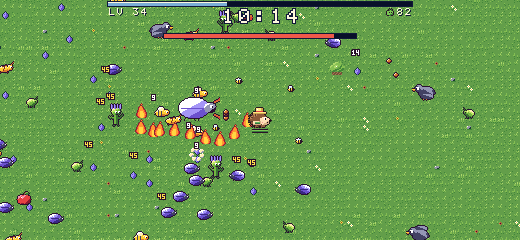
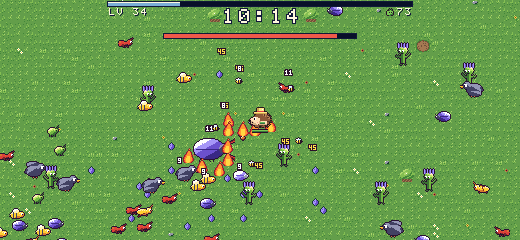
Prickle Patch: pests strolling on the title, a gentler Stag Beetle charge, the docs and their screenshots again
The title: a slug, a beetle and an aphid stroll across the garden at the screen's bottom (hardware sprites: their art
copied into the number pops' tiles, which the title does not use, on OBJ palette 5 with the soft layer's colours; the
colour math off there). The Stag Beetle charges at 3 px/f for 0.73 s (was 3.5 for 0.83), its touch 15. DESIGN.md: the
spawner's rate, the touch's growth, the measured frame costs, the bot's survival. Every game's host runners build;
make pricklepatch-check and pricklepatch-dist pass; the game links as an app module (modulize, ELF and COFF).

diff --git a/games/pricklepatch/src/draw.c b/games/pricklepatch/src/draw.c
@@ -270,6 +270,7 @@ void draw_init(void)
     rs_pal_load(RS_PAL_OBJ(OBJ_TOOLS), pp_pal_tools, 16);
     rs_pal_load(RS_PAL_OBJ(OBJ_ITEMS), pp_pal_items, 16);
     rs_pal_load(RS_PAL_OBJ(OBJ_FX), pp_pal_fx, 16);
+    rs_pal_load(RS_PAL_OBJ(5), pp_pal_soft, 16);           /* the title's strolling pests (title_critters) */
     rs_math(RS_MATH_ADD | RS_MATH_HALF, RS_MATH_OBJ, 0);   /* OBJ 4-7: see-through */
     rs_bg_enable(RS_BG1, 1);
     rs_bg_enable(RS_BG2, 1);
@@ -878,6 +879,29 @@ static void results_panel(const world *w, const view *v, int narrow)
     for (int i = 0; i < 4; i++) hu_big(x + (width - hu_width(vals[i], 1)) / 2, RES_ROW(i) + 1, vals[i], HU_BIG_BANNER);
 }
 
+/* the title: three pests stroll across the garden at the screen's bottom (hardware sprites: their art is copied into the
+ * number pops' tiles, which the title does not use, on OBJ palette 5 = the soft layer's colours; no colour math there) */
+static void title_critters(int t)
+{
+    static const uint8_t kind[3] = {SF_SLUG, SF_BEETLE, SF_APHID};
+    static const uint8_t speed[3] = {3, 4, 6};          /* px per 8 frames */
+    int left = rs_screen_left(), span = rs_screen_right() - left + 32;
+    for (int k = 0; k < 3; k++) {
+        int fr = kind[k] + ((t / (k == 2 ? 6 : 10)) & 1);
+        const pp_soft_def *d = &pp_soft[fr];
+        uint8_t buf[4][64];
+        memset(buf, 0, sizeof buf);
+        for (int y = 0; y < d->h; y++)
+            for (int x = 0; x < d->w; x++) {
+                int gx = d->ox + x, gy = d->oy + y + (16 - d->fh);   /* (feet on the 16-px cell's bottom) */
+                if (gx < 16 && gy >= 0 && gy < 16) buf[(gy / 8) * 2 + gx / 8][(gy & 7) * 8 + (gx & 7)] = pp_soft_px[d->off + y * d->w + x];
+            }
+        rs_tiles_load8(VR_OBJ + POP_TILE + k * 4, buf[0], 4);
+        int x = left - 16 + (int)((t * speed[k] / 8 + k * 137) % span), y = rs_screen_bottom() - 22 - k * 16;
+        spr_raw(x, y, POP_TILE + k * 4, 16, 16, 5, 2, 0);
+    }
+}
+
 /* ---- the frame ------------------------------------------------------------------------------------------------------------- */
 void draw_frame(const world *w, const view *v)
 {
@@ -918,6 +942,8 @@ void draw_frame(const world *w, const view *v)
     }
     rs_bg_enable(RS_BG2, !title);
     rs_brightness(15);
+    /* OBJ 4-7 see-through (the splash, the ring, the stick, the glows); the title: opaque (its pests on OBJ 5) */
+    rs_math(title ? RS_MATH_OFF : RS_MATH_ADD | RS_MATH_HALF, title ? 0 : RS_MATH_OBJ, 0);
 
     /* the UI layer: redrawn when what it shows changes */
     int secs = w->t / SEC;
@@ -1004,6 +1030,7 @@ void draw_frame(const world *w, const view *v)
         }
         if (!(v->unlocked & (1 << v->chr)))
             spr(SPR_I_LOCK, (narrow ? ht_mid_x() : 160) + hu_ui_x() + 8, (narrow ? pdy - 12 : 76) + 2, 3, 0);
+        if (v->state == ST_TITLE) title_critters(v->st_t);
         return;
     }
     if (v->state == ST_OVER) {

diff --git a/games/pricklepatch/src/world.c b/games/pricklepatch/src/world.c
@@ -22,7 +22,7 @@ const enemy_info EN_INFO[ET_COUNT] = {
     [ET_CROW]     = {  40, 18,  9,  9, 3, 4, SF_CROW},
     [ET_LOCUST]   = {  28, 14,  8,  7, 3, 5, SF_LOCUST},
     [ET_QUEEN]    = {2500,  8, 14, 18, 0, 0, SF_QUEEN},
-    [ET_STAG]     = {9000,  7, 18, 18, 0, 0, SF_STAG},
+    [ET_STAG]     = {9000,  7, 15, 18, 0, 0, SF_STAG},
     [ET_CROWKING] = {36000, 12, 22, 18, 0, 0, SF_CROWKING},
 };
 const uint8_t EVOLVE_WITH[W_COUNT] = {P_POUCH, P_HAT, P_HONEY, P_SUNDIAL, P_MAGNET, P_COMPOST, P_HONEY, P_BOOTS, P_CLOVER};
@@ -843,12 +843,12 @@ static void boss_ai(world *w, int i)
         if (e->st == 0 && e->st_t >= 240) { e->st = 1; e->st_t = 0; }
         else if (e->st == 1 && e->st_t >= 45) {
             int vx, vy;
-            aim(w, ex, ey, hx, hy, 56, &vx, &vy);
+            aim(w, ex, ey, hx, hy, 48, &vx, &vy);
             e->ax = (int16_t)vx;
             e->ay = (int16_t)vy;
             e->st = 2;
             e->st_t = 0;
-        } else if (e->st == 2 && e->st_t >= 50) { e->st = 0; e->st_t = 0; }
+        } else if (e->st == 2 && e->st_t >= 44) { e->st = 0; e->st_t = 0; }
         break;
     case ET_CROWKING:                                 /* circles, dives through, calls crows */
         if (e->st == 0 && e->st_t >= 200) {

diff --git a/games/pricklepatch/DESIGN.md b/games/pricklepatch/DESIGN.md
@@ -57,9 +57,9 @@ The number of pests kept on the field grows smoothly through each minute; the mi
 |---|---|---|---|---|---|---|---|---|---|---|---|---|---|---|---|---|
 | pests | 12 | 26 | 40 | 55 | 70 | 85 | 100 | 120 | 140 | 160 | 180 | 200 | 220 | 240 | 260 | 280 |
 
-The first 20 seconds the pests come one at a time (a trickle). Their health grows with the time (x1 at 0:00, x1.67 at
-10:00, x2 at 15:00). A boss out: three quarters of the others. The moonlit garden (opened by a run past 10:00): health
-x1.25, speed x1.125, 12% more pests.
+They come at 2 + minute a second at most (a trickle at first, 17 a second at 15:00). Their health grows with the time (x1
+at 0:00, x1.67 at 10:00, x2 at 15:00), their touch too (x1.25 at 7:30, x1.5 at 15:00). A boss out: three quarters
+of the others. The moonlit garden (opened by a run past 10:00): health x1.25, speed x1.125, 12% more pests.
 
 | pest | health | speed (px/f) | touch | gem | from |
 |---|---|---|---|---|---|
@@ -71,8 +71,8 @@ x1.25, speed x1.125, 12% more pests.
 | thistle | 60 | 0.31 | 10 | 4 | 5:00 |
 | crow | 40 | 1.12 | 9 | 3 | 7:00 (swoops through) |
 | locust | 28 | 0.88 (hops x1.5) | 8 | 3 | 8:00 |
-| Slug Queen | 2500 | 0.31 | 14 | 60 | 5:00: six slugs come out every 4 s |
-| Stag Beetle | 9000 | 0.44 | 18 | 100 | 10:00: stops, shakes 0.75 s (the warning), charges 3.5 px/f |
+| Slug Queen | 2500 | 0.5 | 14 | 60 | 5:00: six slugs come out every 4 s |
+| Stag Beetle | 9000 | 0.44 | 15 | 100 | 10:00: stops, shakes 0.75 s (the warning), charges 3 px/f for 0.73 s |
 | Crow King | 36000 | 0.75 | 22 | 140 | 15:00: circles at 110 px, dives through, calls crows; chased off: the garden is saved |
 
 Events: a ring of 20 aphids closing in at 1:30, an elite beetle with a chest at 3:00, a column of 18 ants at 4:00, a
@@ -97,10 +97,11 @@ every 2 s a level, magnet +25% gem reach, sundial -6% cooldowns, seed pouch +1 s
 pumpkins, bees, mowers, puffs), clover +8% XP and +15% coins (and luckier drops).
 
 ### Difficulty
-A gentle first three minutes (the bot, with random choices, keeps every health point there; the tests check three
-seeds), the first boss and a real crowd by 5:00-7:00, the arena full by 10:00 (about 150 pests on the field), 260-280
-at the end with the Crow King: survivable with a good build, tense. A normal phone player meets the first
-elite (a chest) at 3:00 and should reach the Slug Queen.
+A gentle first three minutes (the tests: the bot, with random choices, survives them on three seeds, and 5:00 on a
+fourth), the first boss and a real crowd by 5:00-7:00, the Stag Beetle and a full arena at 10:00, the most pests and
+the Crow King at 15:00: survivable with a good build, tense. The bot (it flees the pests, leaves many gems, chooses at
+random) lasts to 10:00-11:00 on most seeds, to 15:00 on about one in four; a player who gathers the gems and chooses
+well gets further. A normal phone player meets the first elite (a chest) at 3:00 and should reach the Slug Queen.
 
 ### The garden shed (the meta-progression, save RAM)
 Coins: picked up in a run, plus 1 per 12 seconds survived and 25 per boss chased off. Six boosts of 5 levels (price:
@@ -121,10 +122,11 @@ sprites are kept for the gardener and its health bar, the tools that move (bees,
 flames, the splash, the prickle ring), the pickups, the number pops (16 sprites of 16x8 drawn at run time) and the UI;
 a budget in draw.c keeps them under 124 and 30 a band of 8 lines (strict mode never warns: the tests run with it).
 
-Measured (tests/bench_test.sh, host; the A20 estimate x15-20): the first minutes 0.25 ms a frame, minute 10 with the
-Stag Beetle and a full build 0.35 ms, minute 14 with 272 pests 0.45 ms (0.60 at 520 columns or upright), all under the
-0.83 ms budget. The pool runs short only in the densest crowd at minute 14 (a god-mode bot circling: under 8% of the
-frames at 4:3, the far pests then not drawn for a frame).
+Measured (tests/bench_test.sh, host; the A20 estimate x15-20): the first minutes 0.26 ms a frame, minute 10 with the
+Stag Beetle and a full build 0.31 ms, minute 14 0.34 ms (0.48 at 520 columns, 0.45 upright), all under the 0.83 ms
+budget (A20 estimate at 4:3: 5-7 ms of the 16.7). The pool peaks at 581 tiles at 4:3 (of 768), never short in the
+benches; with 272 pests packed round a god-mode bot (an earlier, denser spawner) it ran short in 8% of the frames, the
+far pests then not drawn for a frame.
 
 ## Screen and layers
 320 x 240 at 60 Hz. Back to front: BG4 the garden (and the gems), sprites prio 1 (pickups), BG2 the soft layer,
